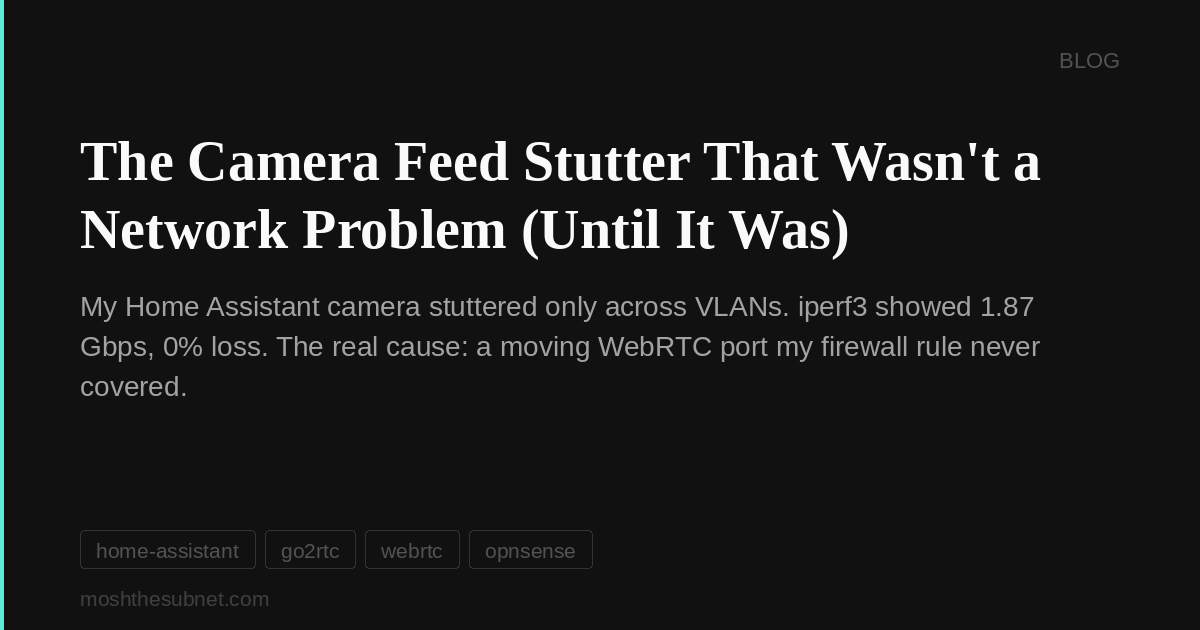
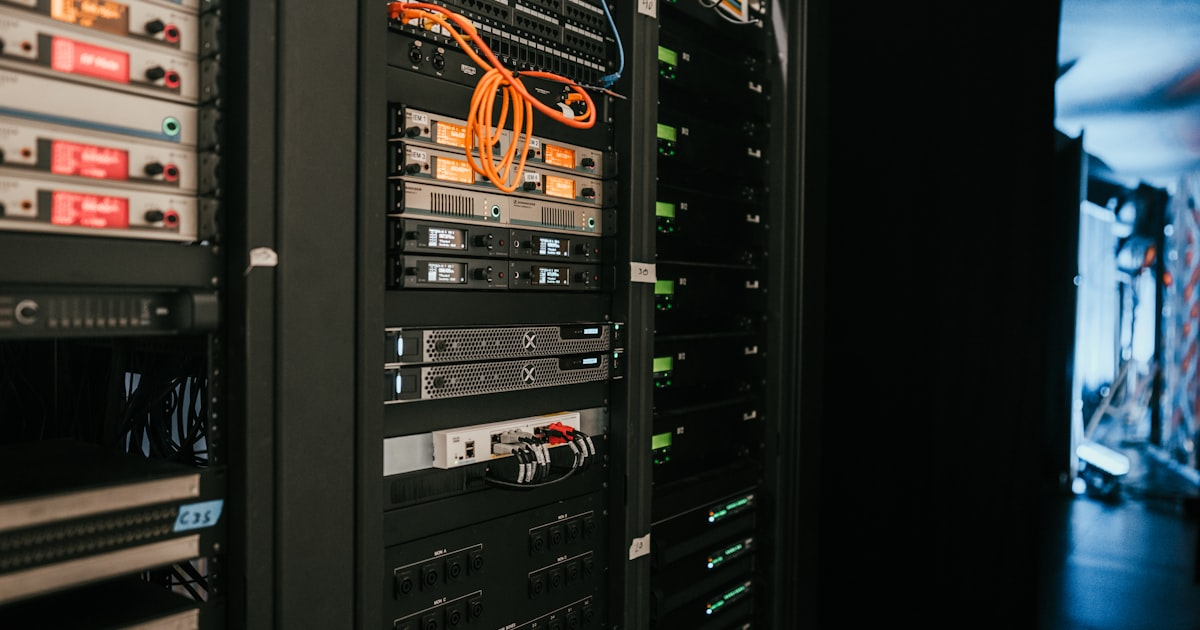
fix(blog): separate OG share cards from article hero images
generate-og-cards.py wrote social cards to feature.png, the same file
layouts/single.html renders as the in-article hero, so every regenerated
post showed its title twice (once as H1, once inside the hero card).
Third occurrence of this collision (see b705f9e, 351f0be).

Cards now write to og-card.png, images: frontmatter points OG meta
there, and feature.png is reserved for the real hero photo. The camera
post's hero is the Unsplash photo its coverImage always intended.

diff --git a/scripts/generate-og-cards.py b/scripts/generate-og-cards.py
@@ -4,8 +4,12 @@ Generate OG-style feature cards for blog post bundles, matching the project
 card style: dark bg · teal left accent · bold serif title · description ·
 tags · url watermark · "BLOG" label.
 
-Writes content/blog/<slug>/feature.png (referenced by each post's images:
+Writes content/blog/<slug>/og-card.png (referenced by each post's images:
 frontmatter for og:image / twitter:image).
+
+NOTE: must NOT write to feature.png — layouts/single.html globs *feature*
+in the bundle and renders it as the in-article hero, so a card there
+duplicates the title under the H1 (see commits 953c5c8 / 8385b41).
 
 Usage:
     python3 scripts/generate-og-cards.py
@@ -174,7 +178,7 @@ def main():
     if not posts:
         sys.exit(f"No post bundles found in {CONTENT_DIR}")
 
-    print(f"Generating {len(posts)} cards into content/blog/<slug>/feature.png\n")
+    print(f"Generating {len(posts)} cards into content/blog/<slug>/og-card.png\n")
 
     for post_path in posts:
         text = post_path.read_text()
@@ -185,9 +189,9 @@ def main():
             continue
 
         slug        = post_path.parent.name
-        output_path = post_path.parent / "feature.png"
+        output_path = post_path.parent / "og-card.png"
 
-        print(f"  {'[dry]' if args.dry_run else ''}  {slug} → feature.png")
+        print(f"  {'[dry]' if args.dry_run else ''}  {slug} → og-card.png")
 
         generate_card(
             title=fm["title"],

diff --git a/content/blog/vpn-vs-vlan/index.md b/content/blog/vpn-vs-vlan/index.md
@@ -6,7 +6,7 @@ draft: false
 description: "VPN vs VLAN explained at the OSI layer level: what each protects, what each can't do, and how to run both in a homelab. With a real 7-VLAN + WireGuard setup."
 summary: "VPN and VLAN share two words but solve completely different problems. Here's what each one does, why you can't swap one for the other, and how I run both in my homelab."
 tags: ["networking", "vpn", "vlan", "wireguard", "opnsense", "homelab", "ccna", "security"]
-images: ["/blog/vpn-vs-vlan/feature.png"]
+images: ["/blog/vpn-vs-vlan/og-card.png"]
 ---
 
 *By [Skyler King](/docs/bio/), CCNA-certified network engineering student at WGU, building toward a career in cloud and hybrid networking.*

diff --git a/content/blog/layer3-vs-layer4-vpn-wireguard-twingate/index.md b/content/blog/layer3-vs-layer4-vpn-wireguard-twingate/index.md
@@ -8,7 +8,7 @@ summary: "WireGuard and TwinGate both call themselves VPNs. One gives you a netw
 coverImage: "https://images.unsplash.com/photo-1563986768609-322da13575f3?w=1200&h=630&fit=crop&q=80"
 coverImageAlt: "Close-up of a silver padlock resting on a dark keyboard, symbolizing network access control and security"
 tags: ["vpn", "wireguard", "ztna", "twingate", "networking", "homelab", "security", "ccna"]
-images: ["/blog/layer3-vs-layer4-vpn-wireguard-twingate/feature.png"]
+images: ["/blog/layer3-vs-layer4-vpn-wireguard-twingate/og-card.png"]
 ---
 
 *By [Skyler King](/docs/bio/), CCNA-certified network engineering student at WGU, building toward a career in cloud and hybrid networking.*

diff --git a/content/blog/homelab-docs-automation-n8n-claude/index.md b/content/blog/homelab-docs-automation-n8n-claude/index.md
@@ -17,7 +17,7 @@ tags:
   - obsidian
   - truenas
   - documentation
-images: ["/blog/homelab-docs-automation-n8n-claude/feature.png"]
+images: ["/blog/homelab-docs-automation-n8n-claude/og-card.png"]
 ---
 
 *By [Skyler King](/docs/bio/), CCNA-certified network engineering student at WGU, building toward a career in cloud and hybrid networking.*

diff --git a/content/blog/network-engineering-talent-void/index.md b/content/blog/network-engineering-talent-void/index.md
@@ -13,7 +13,7 @@ tags:
   - career
   - netdevops
   - automation
-images: ["/blog/network-engineering-talent-void/feature.png"]
+images: ["/blog/network-engineering-talent-void/og-card.png"]
 ---
 
 *By [Skyler King](/docs/bio/) — CCNA-certified network engineering student at WGU, building toward a career in cloud and hybrid networking.*

diff --git a/content/blog/job-rejection-response-framework/index.md b/content/blog/job-rejection-response-framework/index.md
@@ -13,7 +13,7 @@ tags:
   - networking
   - hiring
   - IT-career
-images: ["/blog/job-rejection-response-framework/feature.png"]
+images: ["/blog/job-rejection-response-framework/og-card.png"]
 ---
 
 *By [Skyler King](/docs/bio/), CCNA-certified network engineering student at WGU, building toward a career in cloud and hybrid networking.*

diff --git a/content/blog/truenas-immich-postgres-fix/index.md b/content/blog/truenas-immich-postgres-fix/index.md
@@ -17,7 +17,7 @@ tags:
   - docker
   - database
   - incident-response
-images: ["/blog/truenas-immich-postgres-fix/feature.png"]
+images: ["/blog/truenas-immich-postgres-fix/og-card.png"]
 ---
 
 *By [Skyler King](/docs/bio/) (CCNA-certified network engineering student at WGU, building toward a career in cloud and hybrid networking.)*

diff --git a/content/blog/camera-feed-stutter-vlan/index.md b/content/blog/camera-feed-stutter-vlan/index.md
@@ -17,7 +17,7 @@ tags:
   - homelab
   - networking
   - incident-response
-images: ["/blog/camera-feed-stutter-vlan/feature.png"]
+images: ["/blog/camera-feed-stutter-vlan/og-card.png"]
 ---
 
 *By [Skyler King](/docs/bio/), CCNA-certified network engineering student at WGU, building toward a career in cloud and hybrid networking.*

diff --git a/content/blog/opnsense-backup-incident/index.md b/content/blog/opnsense-backup-incident/index.md
@@ -16,7 +16,7 @@ tags:
   - bash
   - automation
   - incident-response
-images: ["/blog/opnsense-backup-incident/feature.png"]
+images: ["/blog/opnsense-backup-incident/og-card.png"]
 ---
 
 *By [Skyler King](/docs/bio/), CCNA-certified network engineering student at WGU, building toward a career in cloud and hybrid networking.*

diff --git a/content/blog/cross-vlan-network-monitor/index.md b/content/blog/cross-vlan-network-monitor/index.md
@@ -16,7 +16,7 @@ tags:
   - proxmox
   - docker
   - automation
-images: ["/blog/cross-vlan-network-monitor/feature.png"]
+images: ["/blog/cross-vlan-network-monitor/og-card.png"]
 ---
 
 *By [Skyler King](/docs/bio/), CCNA-certified network engineering student at WGU, building toward a career in cloud and hybrid networking.*

diff --git a/content/blog/ipv8-vs-ipv6/index.md b/content/blog/ipv8-vs-ipv6/index.md
@@ -16,7 +16,7 @@ tags:
   - protocols
   - bgp
   - ccna
-images: ["/blog/ipv8-vs-ipv6/feature.png"]
+images: ["/blog/ipv8-vs-ipv6/og-card.png"]
 ---
 
 *By [Skyler King](/docs/bio/) — CCNA-certified network engineering student at WGU, building toward a career in cloud and hybrid networking.*
